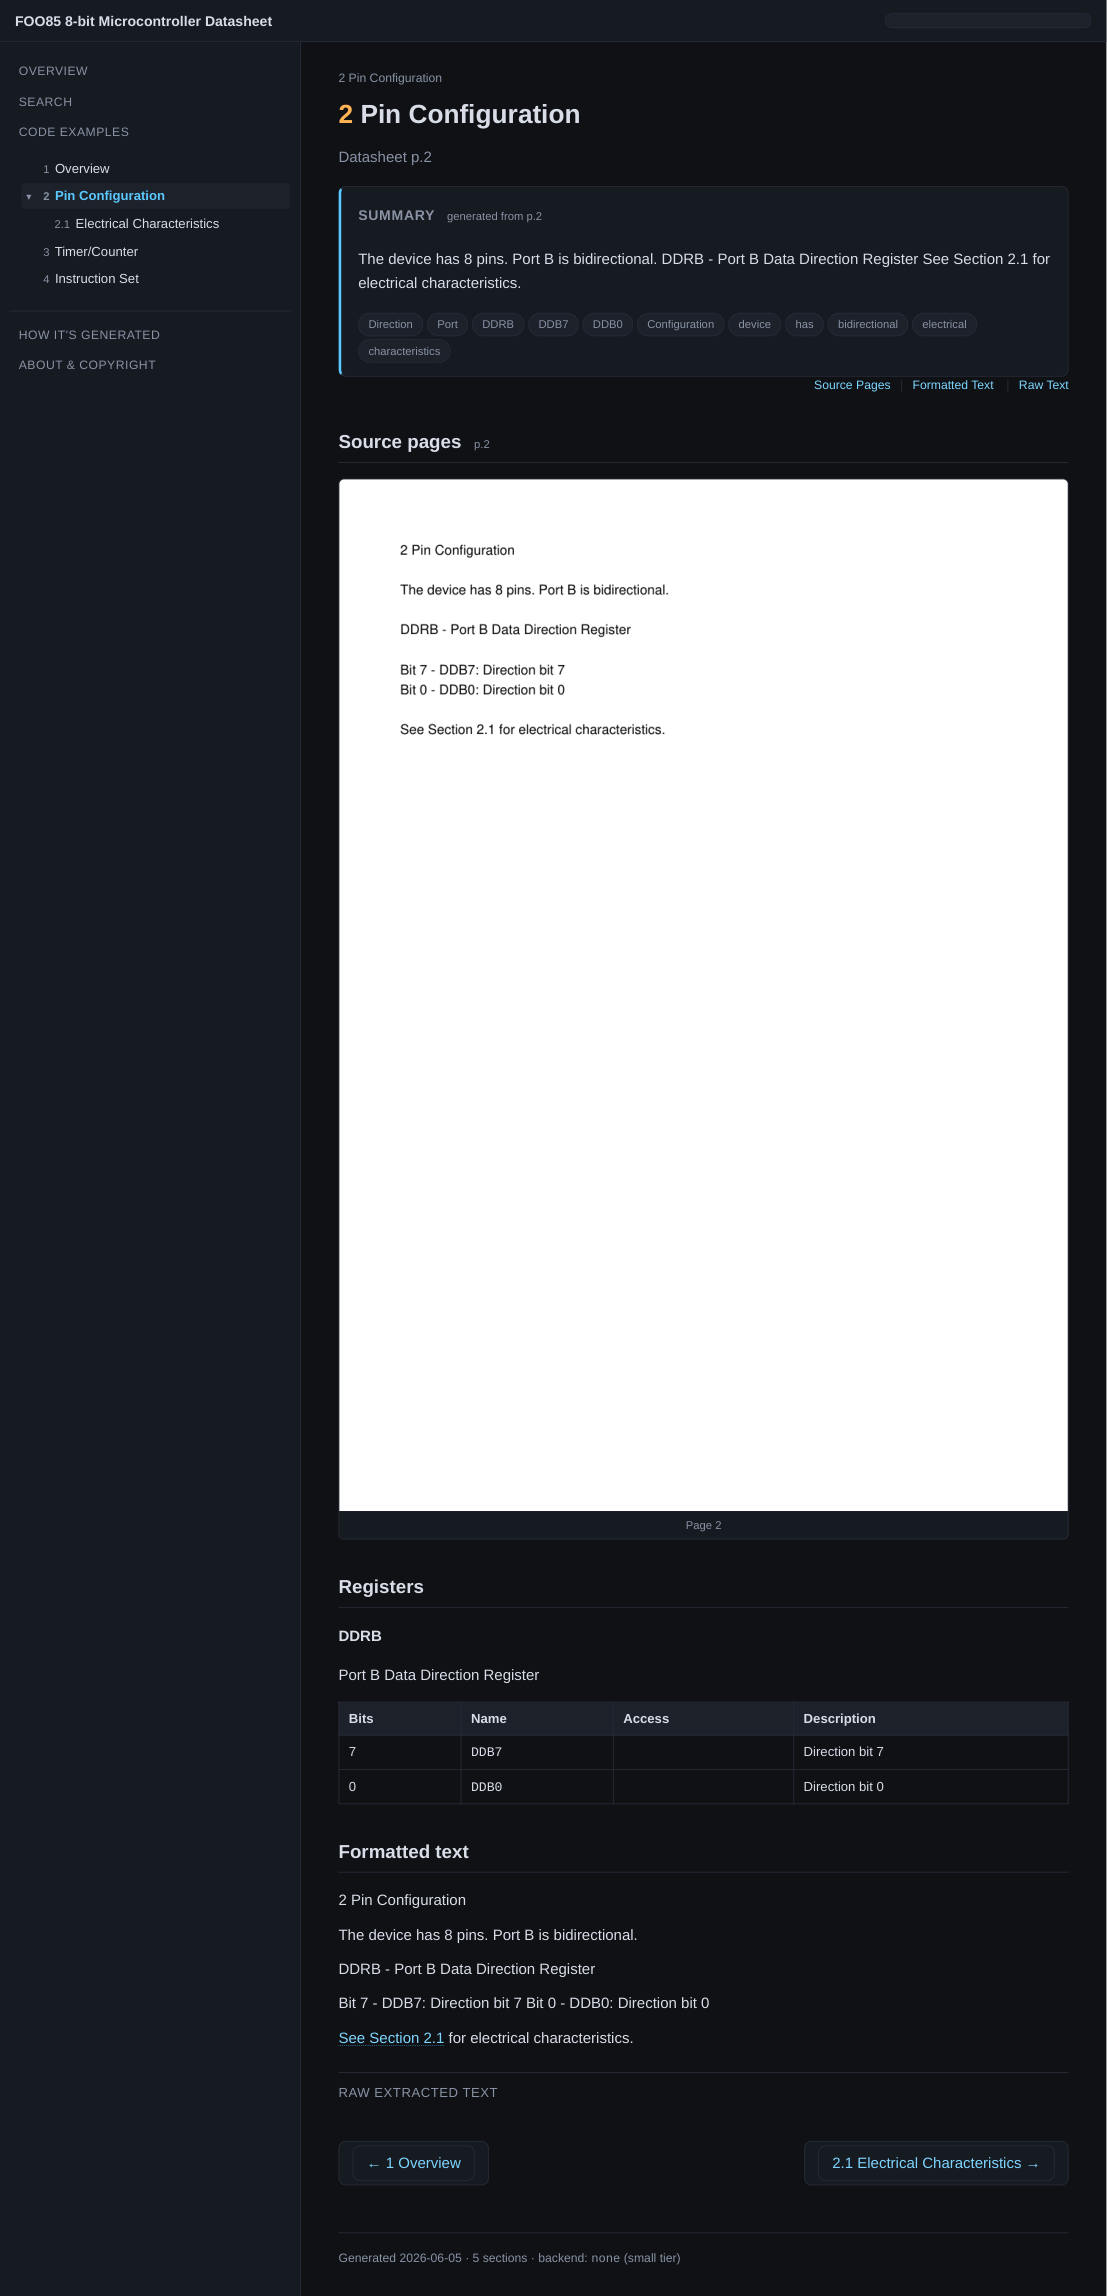
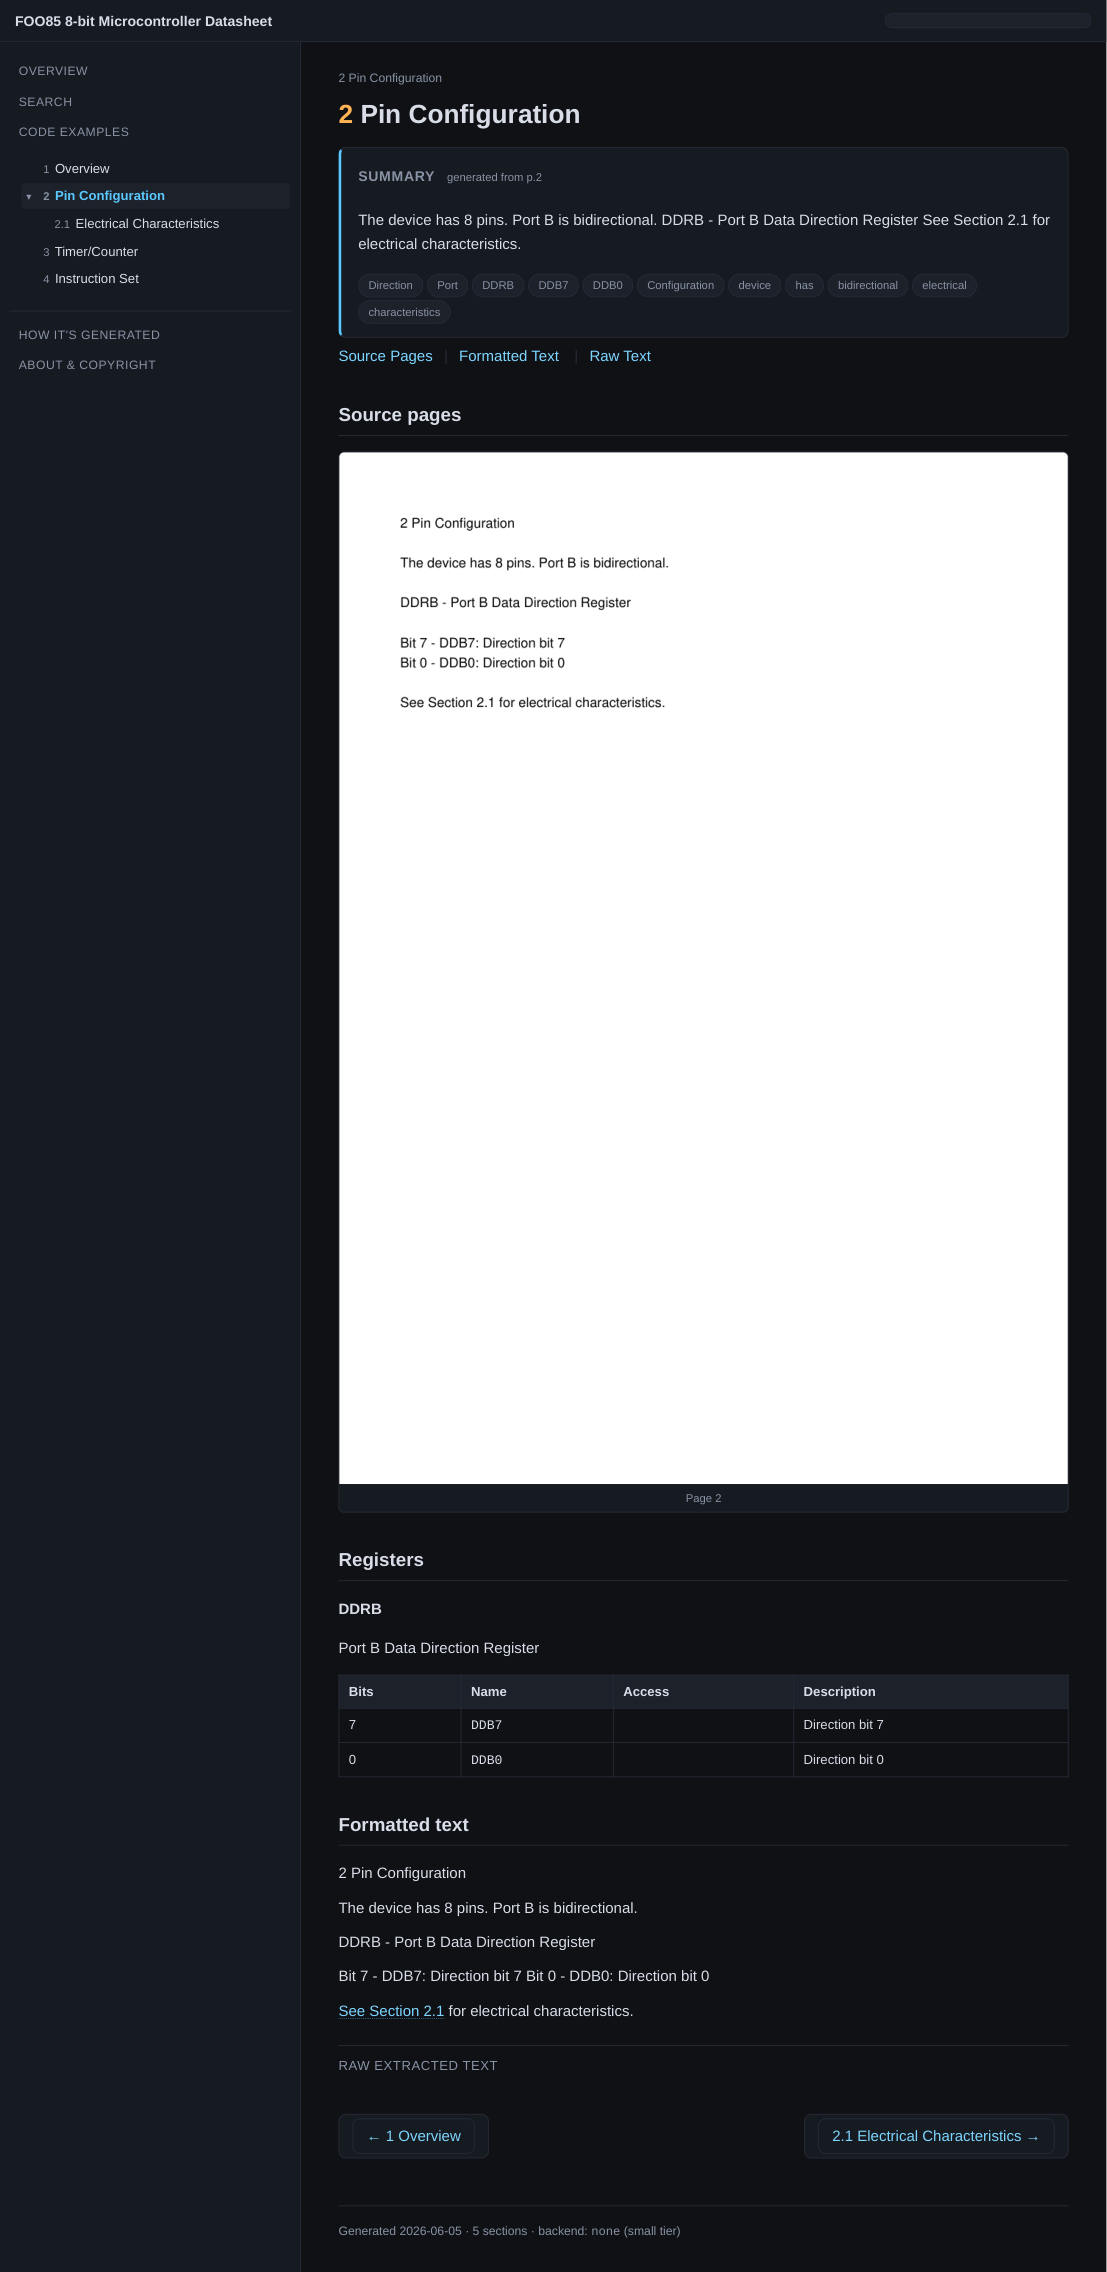
Left-align in-page ToC, add heading permalinks, drop page-label lines
- Section ToC (Source Pages | Formatted Text | Raw Text) is now left-aligned at
  normal text size instead of small/right-aligned.
- Add copy-on-click permalinks (hover-revealed #) to each section heading
  (Summary, Source pages, Registers, Code examples, Formatted text) so users can
  deep-link to a section; clicking updates the URL hash and copies the absolute
  link to the clipboard.
- Remove the 'Datasheet p.N' line under the heading and the 'p.N' label beside
  'Source pages' (page numbers still shown on the summary and image captions).

diff --git a/datasheet_wiki/site/templates/section.html b/datasheet_wiki/site/templates/section.html
@@ -1,5 +1,6 @@
 {% extends "base.html" %}
 {% block title %}{{ section.title }}{% endblock %}
+{% macro pl(anchor, label) %}<a class="permalink" href="#{{ anchor }}" aria-label="Permalink to {{ label }}" title="Copy link to this section">#</a>{% endmacro %}
 {% block content %}
 <article class="prose section">
   <nav class="crumbs">
@@ -10,11 +11,10 @@
   </nav>
 
   <h1>{% if section.number %}<span class="secnum">{{ section.number }}</span> {% endif %}{{ section.short_title }}</h1>
-  <p class="muted">Datasheet {{ section.page_label }}</p>
 
   {% if enrichment.summary %}
-  <div class="summary">
-    <h2>Summary <span class="from">generated from {{ section.page_label }}</span></h2>
+  <div class="summary" id="summary">
+    <h2>Summary <span class="from">generated from {{ section.page_label }}</span> {{ pl('summary', 'Summary') }}</h2>
     <p>{{ enrichment.summary }}</p>
     {% if enrichment.keywords %}
     <p class="tags">{% for k in enrichment.keywords %}<span class="tag">{{ k }}</span>{% endfor %}</p>
@@ -32,7 +32,7 @@
 
   {% if page_imgs %}
   <section class="pageimages" id="source">
-    <h2>Source pages <span class="from">{{ section.page_label }}</span></h2>
+    <h2>Source pages {{ pl('source', 'Source pages') }}</h2>
     <div class="thumbs">
       {% for img in page_imgs %}
       <figure class="thumb">
@@ -47,8 +47,8 @@
   {% endif %}
 
   {% if enrichment.registers %}
-  <section class="registers">
-    <h2>Registers</h2>
+  <section class="registers" id="registers">
+    <h2>Registers {{ pl('registers', 'Registers') }}</h2>
     {% for r in enrichment.registers %}
     <div class="register">
       <h3>{{ r.name }}{% if r.address %} <code class="addr">{{ r.address }}</code>{% endif %}</h3>
@@ -70,7 +70,7 @@
 
   {% if enrichment.code_examples %}
   <section class="code-examples" id="code">
-    <h2>Code examples</h2>
+    <h2>Code examples {{ pl('code', 'Code examples') }}</h2>
     {% for c in enrichment.code_examples %}
     <figure class="code">
       <figcaption>{{ c.title }} <span class="lang">{{ c.language }}</span></figcaption>
@@ -82,7 +82,7 @@
 
   {% if formatted %}
   <section class="formatted" id="formatted">
-    <h2>Formatted text</h2>
+    <h2>Formatted text {{ pl('formatted', 'Formatted text') }}</h2>
     {{ formatted | safe }}
   </section>
   {% endif %}

diff --git a/datasheet_wiki/site/static/style.css b/datasheet_wiki/site/static/style.css
@@ -56,10 +56,20 @@ code, pre { font-family: "SFMono-Regular", Consolas, "Liberation Mono", Menlo, m
 .muted { color: var(--muted); }
 .secnum { color: var(--accent2); font-variant-numeric: tabular-nums; }
 .crumbs { font-size: 13px; color: var(--muted); margin-bottom: 10px; }
-.section-toc { text-align: right; margin: -2px 0 22px; font-size: 13px; }
+.section-toc { margin: 6px 0 24px; }
 .section-toc a { color: var(--link); }
-.section-toc a + a::before { content: "|"; color: var(--border); margin: 0 10px; }
+.section-toc a + a::before { content: "|"; color: var(--border); margin: 0 12px; }
 :target { scroll-margin-top: 64px; }
+
+/* heading permalinks */
+.prose h1, .prose h2 { position: relative; }
+.permalink { margin-left: 8px; color: var(--muted); font-weight: 400; text-decoration: none;
+  font-size: .72em; opacity: 0; vertical-align: middle; transition: opacity .12s; }
+.prose h2:hover .permalink, .summary:hover .permalink, .permalink:focus { opacity: .55; }
+.permalink:hover { opacity: 1; color: var(--accent); text-decoration: none; }
+.permalink .copied { position: absolute; white-space: nowrap; margin-left: 6px; font-size: 11px;
+  color: var(--accent2); background: var(--panel); border: 1px solid var(--border);
+  border-radius: 6px; padding: 1px 7px; opacity: 1; }
 
 /* index */
 .stat-grid { display: grid; grid-template-columns: repeat(auto-fit, minmax(120px, 1fr)); gap: 12px; margin: 20px 0; }

diff --git a/datasheet_wiki/site/static/app.js b/datasheet_wiki/site/static/app.js
@@ -57,4 +57,20 @@
   }
   window.addEventListener("hashchange", openTargetDetails);
   openTargetDetails();
+
+  // Permalinks: clicking the "#" next to a heading still updates the URL hash
+  // (default), and additionally copies the absolute link to the clipboard.
+  document.querySelectorAll(".permalink").forEach(function (a) {
+    a.addEventListener("click", function () {
+      var url = location.href.split("#")[0] + a.getAttribute("href");
+      if (navigator.clipboard && navigator.clipboard.writeText) {
+        navigator.clipboard.writeText(url).catch(function () {});
+      }
+      var tip = document.createElement("span");
+      tip.className = "copied";
+      tip.textContent = "Link copied";
+      a.appendChild(tip);
+      setTimeout(function () { tip.remove(); }, 1200);
+    });
+  });
 })();

diff --git a/tests/test_pipeline.py b/tests/test_pipeline.py
@@ -60,9 +60,15 @@ def test_section_layout_and_provenance(wiki: Path):
         assert label in html
     for anchor in ('id="source"', 'id="formatted"', 'id="rawtext"'):
         assert anchor in html
-    # per-page provenance blurb removed
+    # per-page provenance blurb + page-label lines removed
     assert "how is this generated?" not in html
     assert "Everything on this page" not in html
+    assert "Datasheet p.4" not in html          # header page label gone
+    assert 'Source pages <a class="permalink"' in html  # no page label by the heading
+    # permalinks to deep-link each section
+    assert html.count('class="permalink"') >= 4
+    for anchor in ('id="summary"', 'id="registers"'):
+        assert anchor in html
 
 
 def test_section_number_not_duplicated(wiki: Path):
